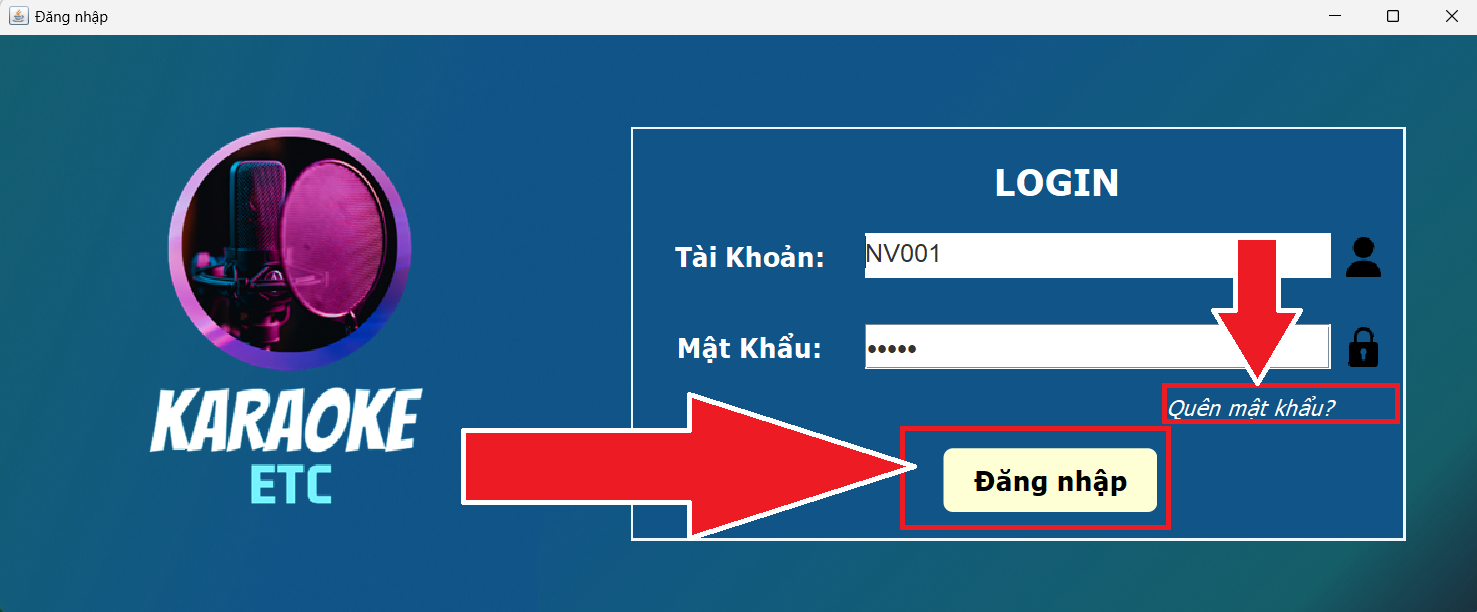
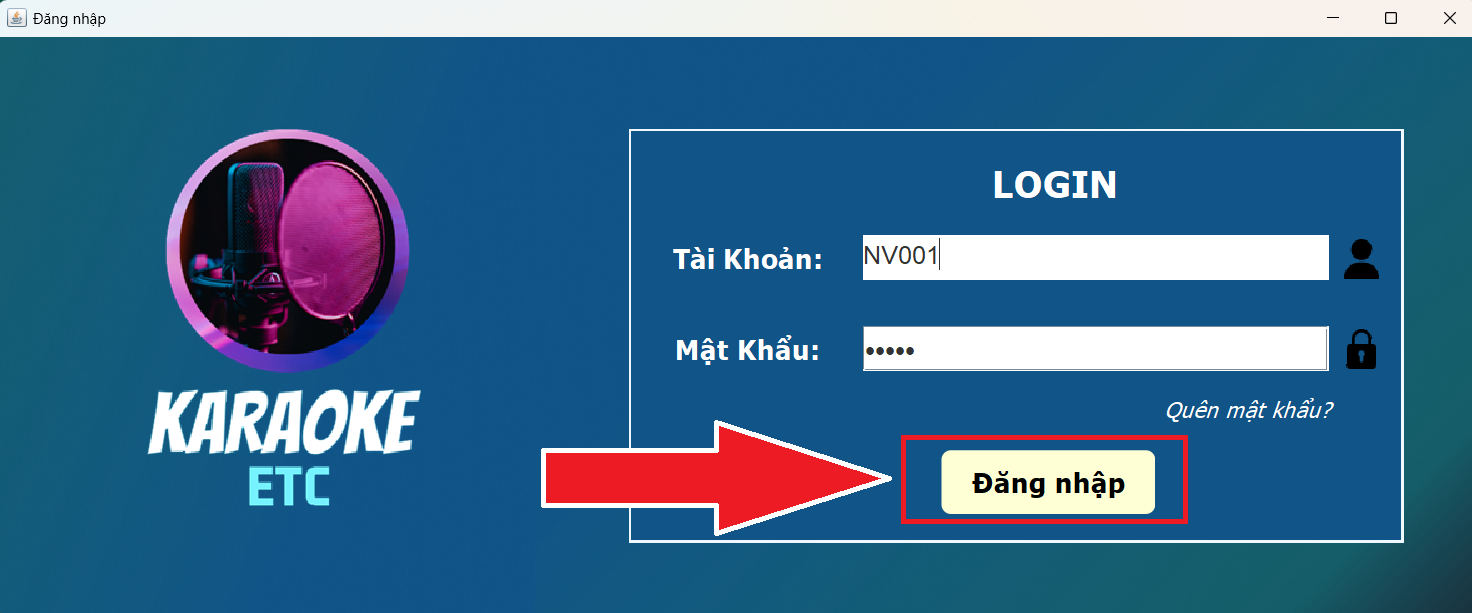
xong help

diff --git a/index.html b/index.html
@@ -16,10 +16,12 @@
     <div class="man-hinh-dangnhap">
         <h1>1. Màn hình đăng nhập</h1>
         <h1>- Chức năng đăng nhập vào hệ thống quản lý Karaoke ETC</h1>
-        <h2>Bước 1. Đăng nhập vào hệ thống</h2>
+        <h2>Bước 1. Nhập tài khoản, mật khẩu của người dùng</h2>
         <img src="img/dangnhap1.png" alt="">
-        <h2>Bước 2. Chọn chức năng đăng nhập, hoặc quên mật khẩu ( Nếu bạn quên mật khẩu )</h2>
+        <h2>Bước 2. Ấn nút "Đăng nhập"</h2>
         <img src="img/dangnhap1_1.png" alt="">
+        <h2>Bước 2.1 Nếu người dùng quên mật khẩu có thể ấn "Quên mật khẩu" để lấy lại mật khẩu mới</h2>
+        <img src="img/dangnhap1_2.png" alt="">
     </div>
     <div class="man-hinh-quenmk">
         <h1>2. Màn hình quên mật khẩu</h1>
@@ -99,9 +101,12 @@
             <h1>5. Màn hình thuê phòng</h1>
             <h1>- Chức năng thuê phòng hệ thống quản lý Karaoke ETC</h1>
             <h2>Bước 1 Nhập SĐT của khách hàng cần thuê </h2>
+            <img src="img/thuephong0.png" alt="">
+            <h2>Bước 1.1 Ấn nút "Làm mới" để nhập lại, nếu nhập sai SĐT</h2>
+            <img src="img/thuephong_lammoi.png" alt="">
             <h2>Bước 2 Sau đó ấn Icon "Search" để tìm kiếm xem khách hàng có tồn tại
                 trong hệ thống hay chưa</h2>
-            <img src="img/thuephong.png" alt="">
+            <img src="img/thuephong0.png" alt="">
             <h2>Bước 3 Nếu khách hàng chưa có trên hệ thống, sẽ tiến hành thêm mới khách hàng</h2>
             <img src="img/thuephong1.png" alt="">
             <h2> Nhập đầy đủ thông tin khách hàng, ấn nút "Xác nhận" để thêm mới khách hàng"</h2>
@@ -109,8 +114,6 @@
             <h2>Bước 3.1 Nếu khách hàng đã tồn tại trên hệ thống thì tiến hành luôn thuê phòng</h2>
             <h2>Bước 4 Chọn phòng "Trống" cần thuê sau đó ấn nút "Thuê phòng" để thuê</h2>
             <img src="img/thuephong3.png" alt="">
-
-
             <h2>Bước 4.1 Có thể lọc theo tình trạng, theo loại để dễ dàng tìm kiếm phòng để thuê</h2>
             <img src="img/thuephong19.png" alt="">
             <h2>Lọc theo tình trạng phòng "Trống"</h2>
@@ -119,7 +122,6 @@
             <img src="img/thuephong21.png" alt="">
             <h2>Lọc theo tình trạng phòng "Trống", loại phòng "Thường"</h2>
             <img src="img/thuephong22.png" alt="">
-
             <h2>Bước 5 Sau khi phòng được thuê thành công, có thể ấn nút "Thêm dịch vụ" để thêm dịch vụ vào phòng</h2>
             <img src="img/thuephong4.png" alt="">
             <h2>Bước 6 Chọn dịch vụ, số lượng cần thêm. Sau đó ấn "Thêm dịch vụ" để thêm</h2>
@@ -144,20 +146,29 @@
             <h2>Có thể xem lại khách hàng đã thuê bao nhiêu phòng qua SĐT, có thể thanh toán nếu cần</h2>
             <img src="img/thuephong18.png" alt="">
             <img src="img/thuephong17.png" alt="">
-            <h2>Bước 12 Nếu nhập nhầm SĐT, có thể ấn nút "Làm mới" để tiến hành nhập lại</h2>
-            <img src="img/thuephong15.png" alt="">
-            <img src="img/thuephong16.png" alt="">
+
         </div>
         <div class="man-hinh-datphong">
             <h1>6. Màn hình đặt phòng</h1>
             <h1>- Chức năng đặt phòng hệ thống quản lý Karaoke ETC</h1>
-            <h2>Bước 1 Nhập SĐT của khách hàng cần thuê </h2>
+            <h2>Bước 1 Nhập SĐT của khách hàng cần đặt </h2>
+            <img src="img/datphong.png" alt="">
+            <h2>Bước 1.1 Khi nhập sai SĐT, có thể ấn nút "Làm mới" để nhập lại</h2>
+            <img src="img/datphong7.png" alt="">
             <h2>Bước 2 Sau đó ấn Icon "Search" để tìm kiếm xem khách hàng có tồn tại
                 trong hệ thống hay chưa</h2>
             <h2>Nếu khách hàng chưa tồn tại thì tiến hành thêm khách hàng mới như "Quản lý thuê phòng"</h2>
-            <img src="img/datphong.png" alt="">
+            <img src="img/datphong0.png" alt="">
             <h2>Bước 3 Nếu khách hàng đã có thì tiến hành chọn ngày đặt, giờ đặt</h2>
             <h2>Bước 4 Chọn phòng cần đặt</h2>
+            <h2>Bước 4.1 Có thể lọc theo tình trạng, loại phòng để dễ dàng đặt phòng</h2>
+            <img src="img/datphong8.png" alt="">
+            <h2>Lọc tất cả phòng theo tình trạng "trống" để tìm phòng đặt</h2>
+            <img src="img/datphong9.png" alt="">
+            <h2>Lọc tất cả loại "phòng VIP", tình trạng "trống"</h2>
+            <img src="img/datphong10.png" alt="">
+            <h2>Lọc tất cả loại "phòng thường", tình trạng "trống"</h2>
+            <img src="img/datphong11.png" alt="">
             <h2>Bước 5 Ấn nút "Đặt phòng" để đặt phòng</h2>
             <img src="img/datphong1.png" alt="">
             <h2>Bước 6 Sau khi đặt phòng thành công, khi khách hàng đến thì phải nhập lại SĐT để kiểm tra rồi mới cho
@@ -172,10 +183,8 @@
             <img src="img/datphong5.png" alt="">
             <h2>Nhận phòng thành công</h2>
             <img src="img/datphong6.png" alt="">
-            <h2>Bước 8 Khi nhập sai SĐT, có thể ấn nút "Làm mới" để nhập lại</h2>
-            <img src="img/datphong7.png" alt="">
-            <h2>Bước 9 Có thể lọc theo tình trạng, loại phòng để dễ dàng đặt phòng</h2>
-            <img src="img/datphong8.png" alt="">
+
+
 
         </div>
         <div class="man-hinh-quanlykh">
@@ -233,7 +242,6 @@
             <h2> Thống kê tổng số phòng, giờ cao cao điểm của hệ thống Karaoke ETC</h2>
             <img src="img/thongke2.png" alt="">
             <h2>Bước 3 Ấn nút "Làm mới" để reset lại kết quả thống kê</h2>
-            <img src="img/thongke3.png" alt="">
             <img src="img/thongke4.png" alt="">
             <h1>- Thống kê khách hàng</h1>
             <h2>Bước 1 Chọn ngày bắt đầu, ngày kết thúc cần thống kê khách hàng</h2>
